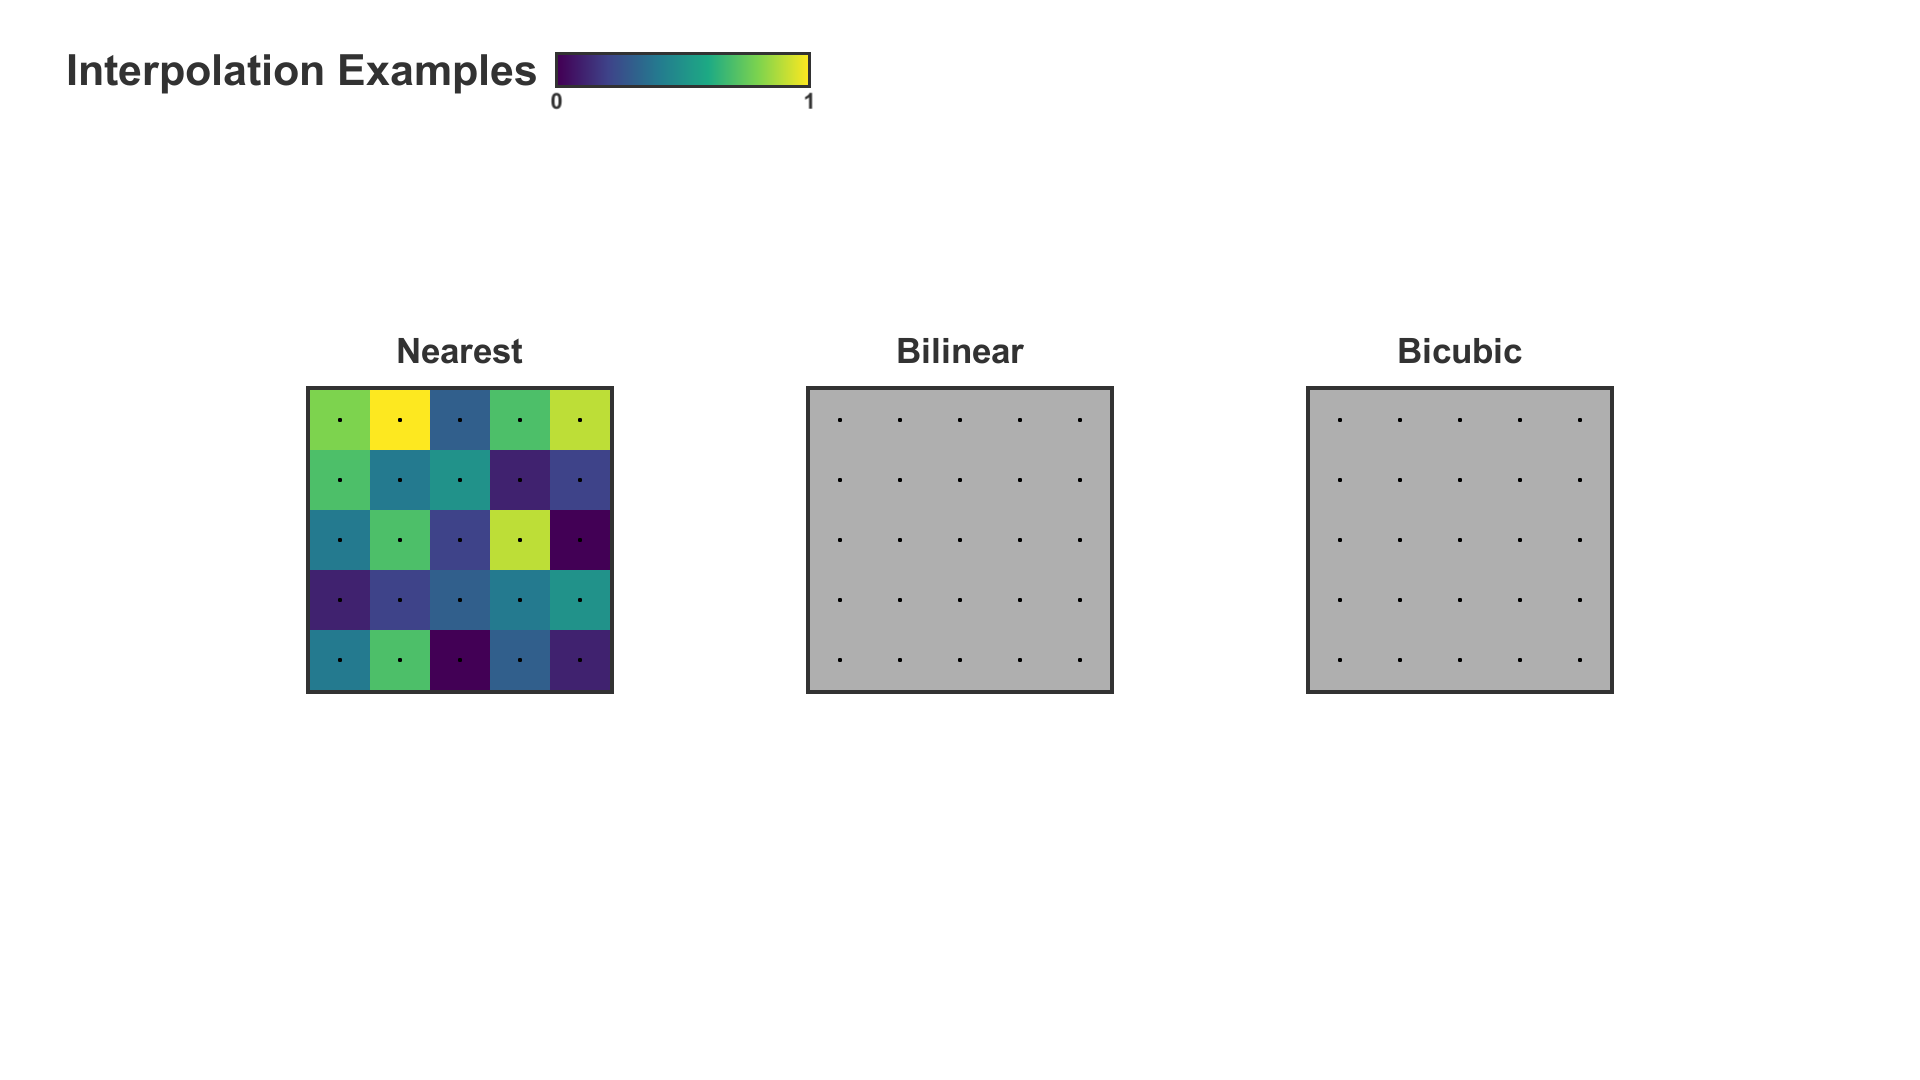
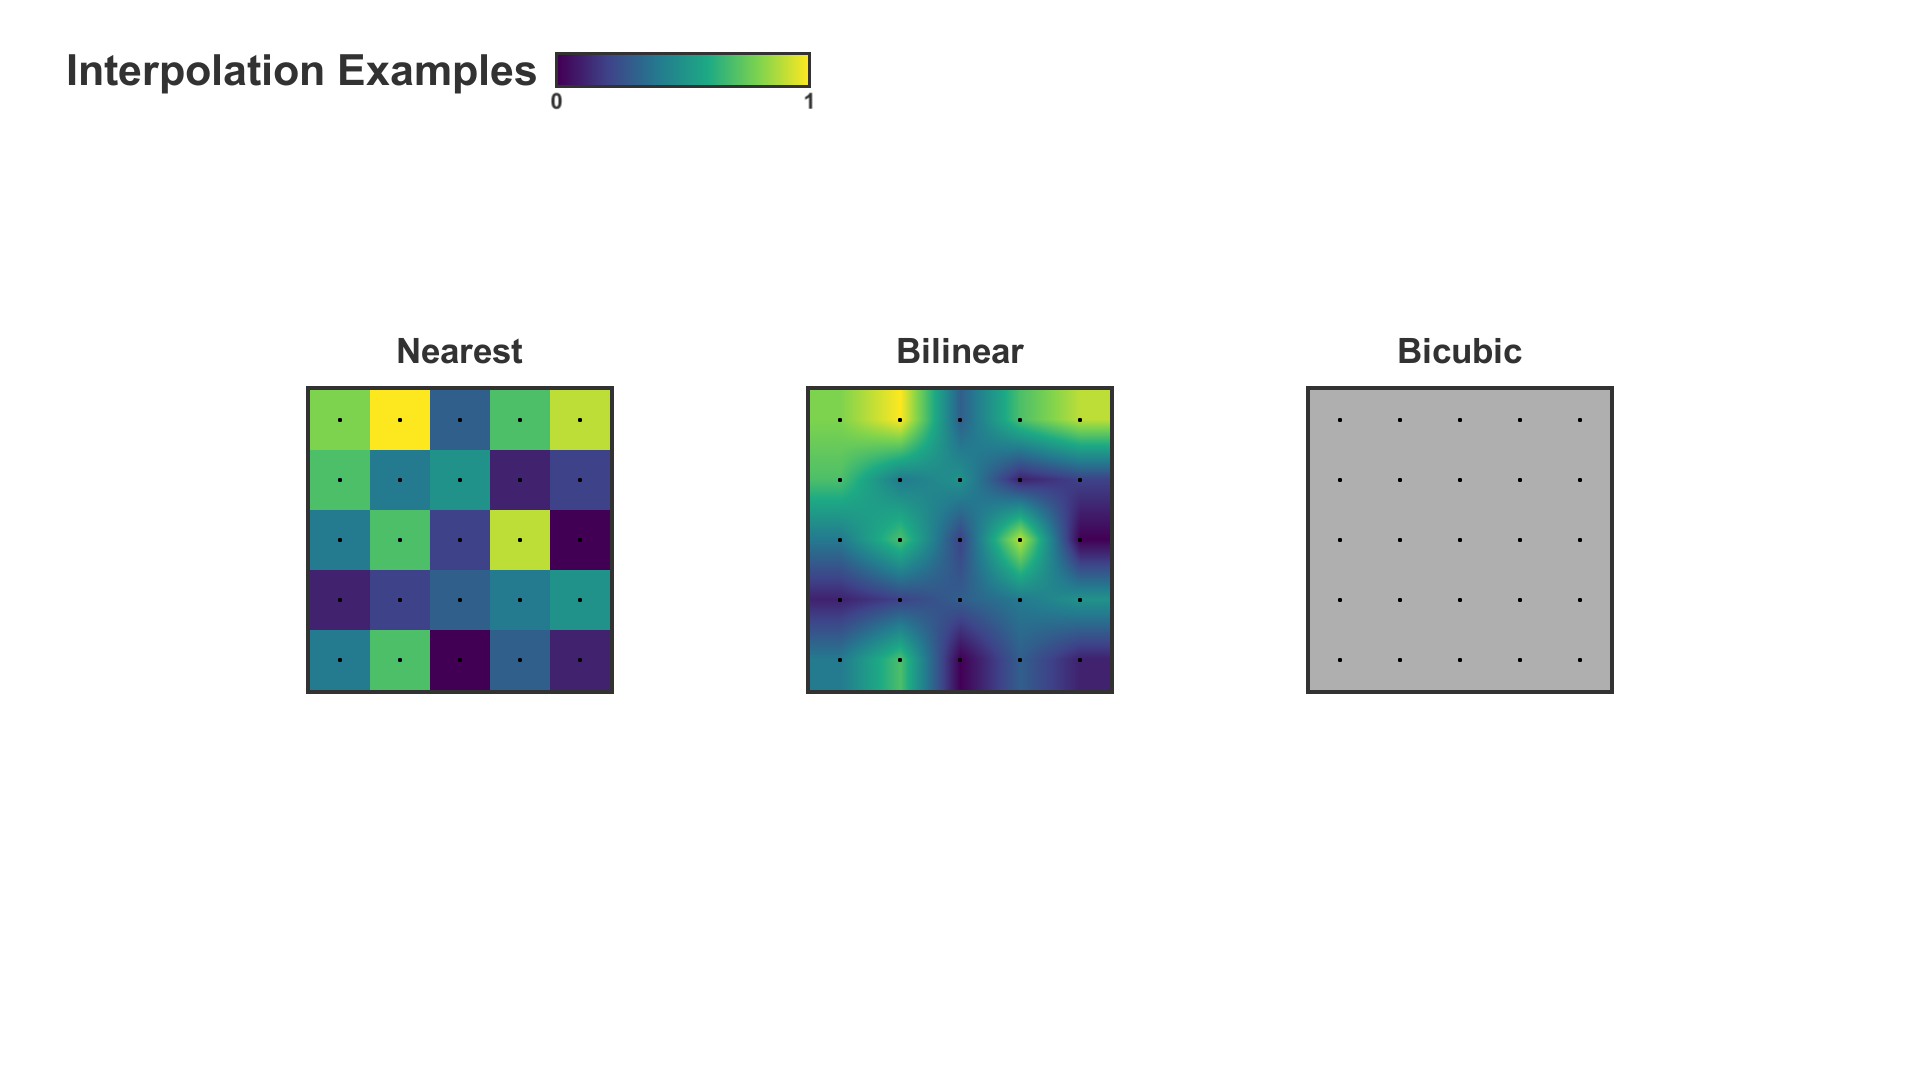
test: bicubic

Changed region(s): [[0.4062, 0.3361, 0.5938, 0.6417]]

diff --git a/Assets/Scripts/Grid.cs b/Assets/Scripts/Grid.cs
@@ -33,6 +33,10 @@ public class Grid : MonoBehaviour
             case InterpolationType.Bilinear:
                 Bilinear(texture);
                 break;
+
+            case InterpolationType.Bicubic:
+                Bicubic(texture);
+                break;
         }
         texture.Apply();
         GetComponent<RawImage>().texture = texture;
@@ -96,5 +100,56 @@ public class Grid : MonoBehaviour
                 texture.SetPixel(i, k, colorGradient.GetColor(l2));
             }
         }
+    }
+
+    private void Bicubic(Texture2D texture)
+    {
+        for (int i = 0; i < width; i++)
+        {
+            for (int k = 0; k < height; k++)
+            {
+                var dx = Mathf.Repeat(i / size, 1);
+                var dy = Mathf.Repeat(k / size, 1);
+
+                var x = Mathf.FloorToInt(i / size);
+                var y = Mathf.FloorToInt(k / size);
+
+
+                float l0, l1, l2, l3;
+                l0 = 0;
+                l1 = 0;
+                l2 = 0;
+                l3 = 0;
+
+
+                try
+                {
+                    if(x == 0)
+                    {
+                        l0 = CubicInterpolation(pivot[y][x], pivot[y + 1][x], pivot[y + 2][x], pivot[y + 3][x], dy);
+                        l1 = l0;
+                    }
+                    l0 = CubicInterpolation(pivot[y][x], pivot[y + 1][x], pivot[y + 2][x], pivot[y + 3][x], dy);
+                    l1 = CubicInterpolation(pivot[y][x + 1], pivot[y + 1][x + 1], pivot[y + 2][x + 1], pivot[y + 3][x + 1], dy);
+                    l2 = CubicInterpolation(pivot[y][x + 2], pivot[y + 1][x + 2], pivot[y + 2][x + 2], pivot[y + 3][x + 2], dy);
+                    l3 = CubicInterpolation(pivot[y][x + 3], pivot[y + 1][x + 3], pivot[y + 2][x + 3], pivot[y + 3][x + 3], dy);
+                }
+                catch
+                {
+
+                }
+                    var t = CubicInterpolation(l0, l1, l2, l3, dx);
+                    texture.SetPixel(i, k, colorGradient.GetColor(t));
+            }
+        }
+    }
+
+    private float CubicInterpolation(float p0, float p1, float p2, float p3, float t)
+    {
+        float a0 = p3 - p2 - p0 + p1;
+        float a1 = p0 - p1 - a0;
+        float a2 = p2 - p0;
+        float a3 = p1;
+        return a0 * t * t * t + a1 * t * t + a2 * t + a3;
     }
 }

diff --git a/README.md b/README.md
@@ -1,4 +1,3 @@
-# Interpolation
-Wikipedia Example with Unity
+# Interpo
 ![image](/Image/image.png)
 https://en.wikipedia.org/wiki/Multivariate_interpolation
